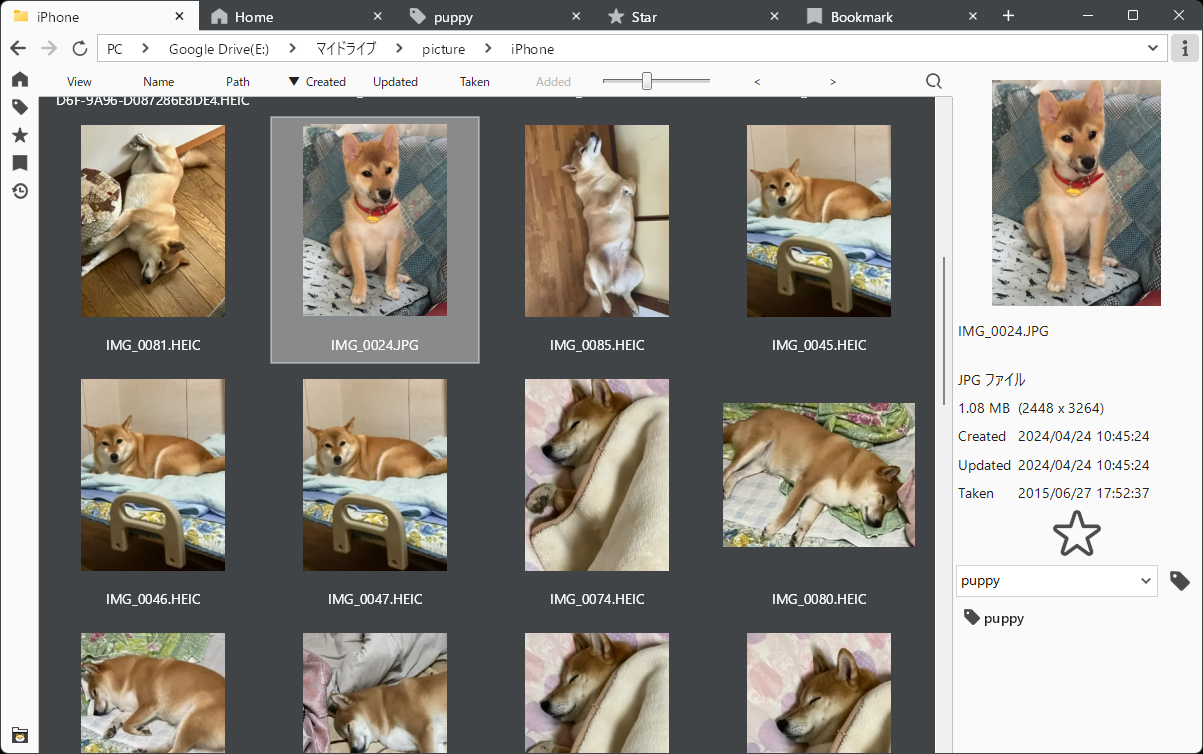
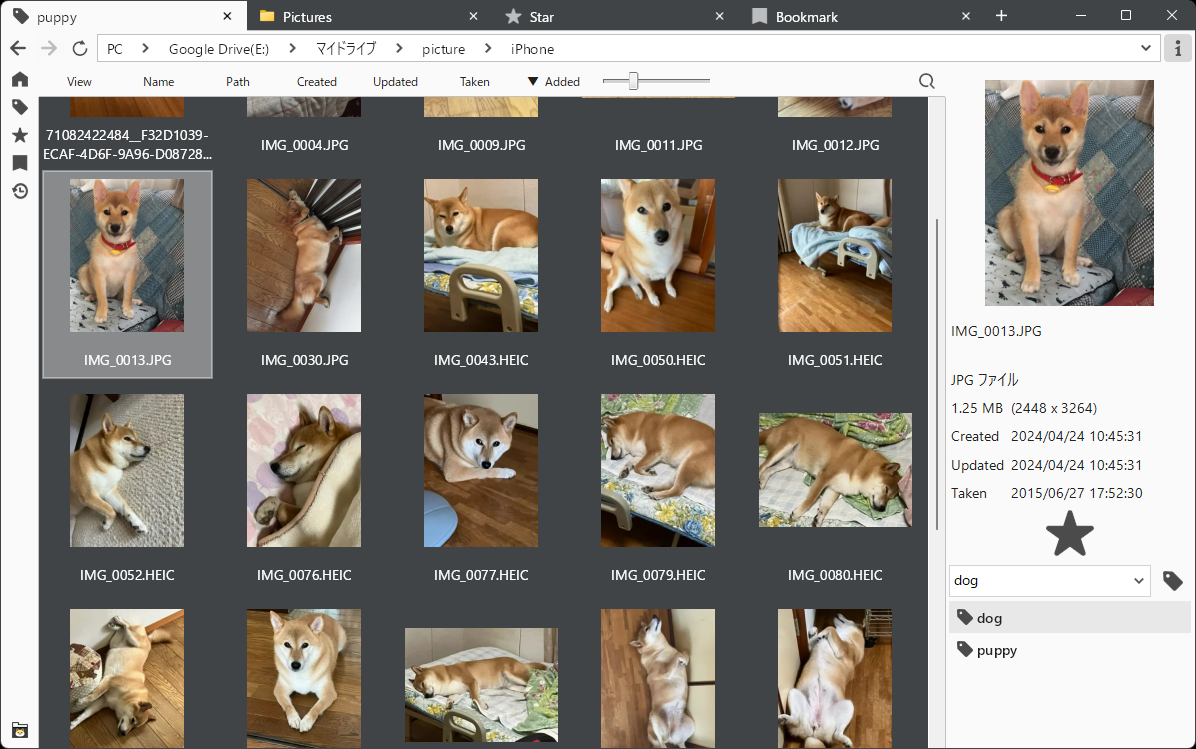
[Mod] スクリーンショットを更新

diff --git a/docs/index-en.html b/docs/index-en.html
@@ -15,7 +15,7 @@
     <style>
       /* Main Media Display Area */
       .hero-display {
-        width: min(1203px, calc(100% - 32px));
+        width: min(1196px, calc(100% - 32px));
         margin: 8px auto 0;
       }
       .display-container {
@@ -24,7 +24,7 @@
         background: #000;
         border-radius: 12px;
         overflow: hidden;
-        aspect-ratio: 1203 / 754;
+        aspect-ratio: 1196 / 749;
         display: flex;
         align-items: center;
         justify-content: center;
@@ -45,7 +45,7 @@
         display: grid;
         grid-template-columns: repeat(4, 1fr);
         gap: 18px;
-        width: min(1203px, calc(100% - 32px));
+        width: min(1196px, calc(100% - 32px));
         margin: 0 auto;
       }
       @media (max-width: 900px) {

diff --git a/docs/index.html b/docs/index.html
@@ -15,7 +15,7 @@
     <style>
       /* Main Media Display Area */
       .hero-display {
-        width: min(1203px, calc(100% - 32px));
+        width: min(1196px, calc(100% - 32px));
         margin: 8px auto 0;
       }
       .display-container {
@@ -24,7 +24,7 @@
         background: #000;
         border-radius: 12px;
         overflow: hidden;
-        aspect-ratio: 1203 / 754;
+        aspect-ratio: 1196 / 749;
         display: flex;
         align-items: center;
         justify-content: center;
@@ -45,7 +45,7 @@
         display: grid;
         grid-template-columns: repeat(4, 1fr);
         gap: 18px;
-        width: min(1203px, calc(100% - 32px));
+        width: min(1196px, calc(100% - 32px));
         margin: 0 auto;
       }
       @media (max-width: 900px) {

diff --git a/docs/styles.css b/docs/styles.css
@@ -295,7 +295,7 @@ h1 {
   display: block;
   width: 100%;
   height: auto;
-  max-width: 1203px;
+  max-width: 1196px;
 }
 
 .card-note {
